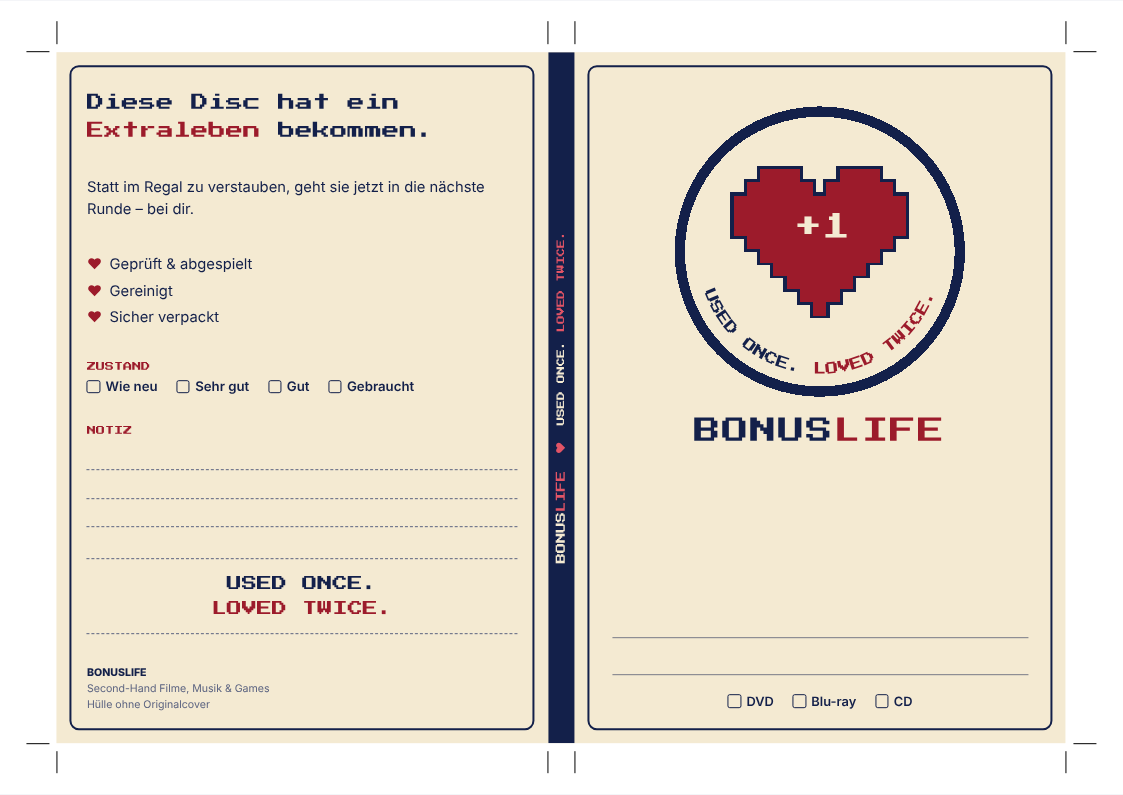
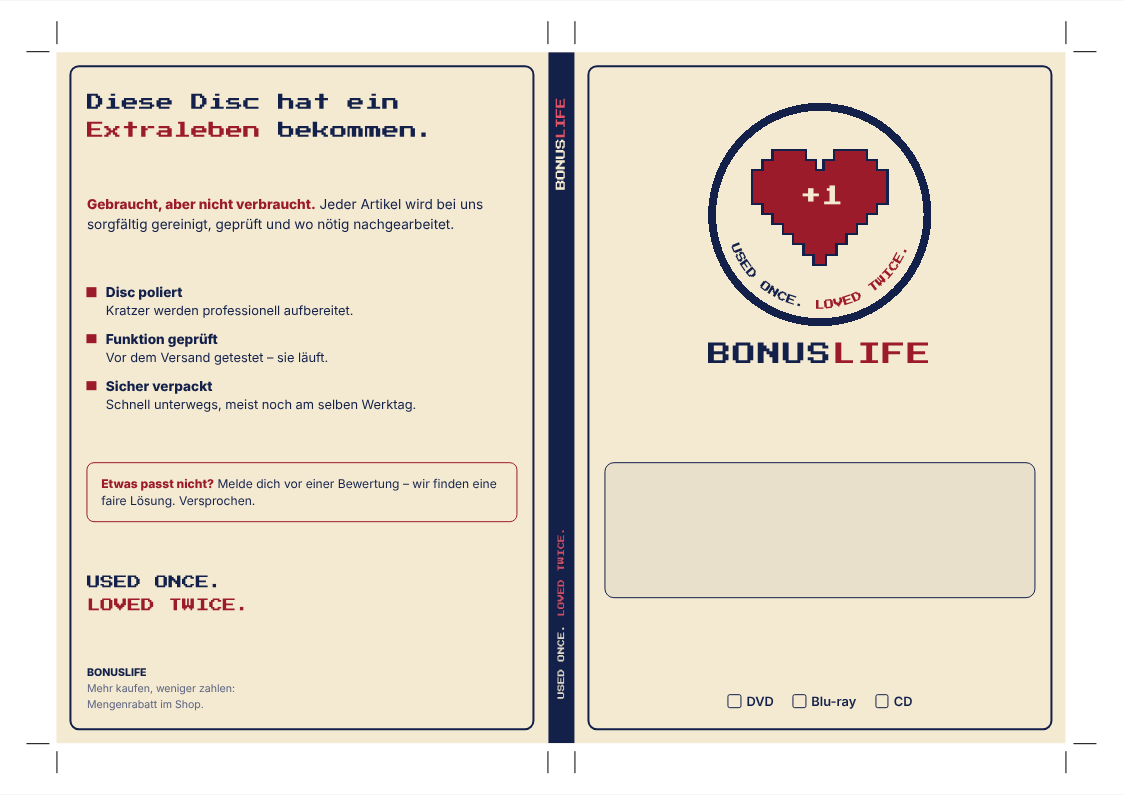
Simplify cover: centred title box, calmer spine, back copy from shop info
Shrink the front logo and bring back an unlabelled title box in the
middle. Drop the spine heart and push name and slogan to opposite ends.
Replace the condition and note fields on the back with the shop's own
promises (cleaned, polished, tested, packed safely, fair solution before
a rating) and a bundle-discount line.

Claude-Session: https://claude.ai/code/session_016MhpHubkyT9LhNT91FdgZQ

diff --git a/cover/index.html b/cover/index.html
@@ -44,11 +44,10 @@ h1{font-size:18px;margin-bottom:4px}
   width:calc(var(--panel-w)*2 + var(--spine));display:flex;background:var(--bg);color:var(--fg);overflow:hidden}
 .panel{width:var(--panel-w);height:100%;position:relative;padding:8mm 8mm;display:flex;flex-direction:column}
 .spine{width:var(--spine);height:100%;background:var(--navy);color:var(--cream);display:flex;align-items:center;justify-content:center;overflow:hidden}
-.spine .sp{writing-mode:vertical-rl;transform:rotate(180deg);white-space:nowrap;display:flex;align-items:center;gap:4mm;font-size:min(3.2mm,calc(var(--spine)*.5))}
+.spine .sp{writing-mode:vertical-rl;transform:rotate(180deg);white-space:nowrap;display:flex;align-items:center;justify-content:space-between;height:100%;padding:12mm 0;font-size:min(3.2mm,calc(var(--spine)*.5))}
 .spine .sp b{font-family:"Press Start 2P",monospace;font-size:.85em;font-weight:400}
 .spine .sp b span{color:#e25466}
-.spine .sp .sh{font-style:normal;color:#e25466;transform:rotate(90deg)}
-.spine .sp .sl{font-size:.7em}
+.spine .sp .sl{font-size:.62em;opacity:.9}
 
 /* Schnitt- und Falzmarken (außerhalb des Covers) */
 .marks{position:absolute;left:50%;top:50%;transform:translate(-50%,-50%);height:var(--h);width:calc(var(--panel-w)*2 + var(--spine));pointer-events:none}
@@ -60,14 +59,12 @@ h1{font-size:18px;margin-bottom:4px}
 
 /* Vorderseite */
 .front{align-items:center;text-align:center}
-.badge{width:78mm;height:78mm;margin-top:6mm}
+.badge{width:60mm;height:60mm;margin-top:5mm}
 .badge img{width:100%;height:100%;object-fit:contain}
-.brand{font-family:"Press Start 2P",monospace;font-size:7mm;margin-top:5mm;letter-spacing:.4mm}
+.brand{font-family:"Press Start 2P",monospace;font-size:6.2mm;margin-top:4mm;letter-spacing:.4mm}
 .brand span{color:var(--accent)}
-.titlefield{align-self:stretch;margin-top:auto;margin-bottom:5mm;padding:0 2mm}
-.titlefield .line{height:10mm;border-bottom:.35mm solid var(--fg);opacity:.55}
-.titlefield .t{font-weight:800;font-size:7.5mm;line-height:1.15;word-break:break-word;padding-bottom:2mm;border-bottom:.35mm solid var(--fg)}
-.line{border-bottom:.3mm dashed var(--muted);height:9mm}
+.titlefield{align-self:stretch;margin:auto 0;min-height:36mm;border:.5mm solid var(--fg);border-radius:2.5mm;background:var(--field);display:flex;align-items:center;justify-content:center;padding:4mm}
+.titlefield .t{font-weight:800;font-size:7.5mm;line-height:1.15;word-break:break-word}
 .formats{display:flex;gap:5mm;font-size:3.4mm;font-weight:600;margin-bottom:1mm}
 .formats span::before{content:"";display:inline-block;width:3mm;height:3mm;border:.35mm solid var(--fg);border-radius:.6mm;margin-right:1.4mm;vertical-align:-.4mm}
 .formats span.on::before{background:var(--accent);border-color:var(--accent)}
@@ -76,15 +73,17 @@ h1{font-size:18px;margin-bottom:4px}
 .back{justify-content:space-between}
 .back h2{font-family:"Press Start 2P",monospace;font-size:4.6mm;line-height:1.6;font-weight:400;margin-top:2mm}
 .back h2 span{color:var(--accent)}
-.back p{font-size:3.9mm;line-height:1.5}
-.checks{list-style:none;font-size:3.9mm;line-height:1.8}
-.checks li::before{content:"♥";color:var(--accent);margin-right:2mm}
-.slogan{font-family:"Press Start 2P",monospace;font-size:4mm;line-height:1.7;text-align:center;border-top:.4mm dashed var(--muted);border-bottom:.4mm dashed var(--muted);padding:3mm 0}
-.cond .lbl2,.notes .lbl2{font-family:"Press Start 2P",monospace;font-size:2.4mm;color:var(--accent);margin-bottom:2mm}
-.cond .opts{display:flex;flex-wrap:wrap;gap:2mm 5mm;font-size:3.5mm;font-weight:600}
-.cond .opts span::before{content:"";display:inline-block;width:3mm;height:3mm;border:.35mm solid var(--fg);border-radius:.6mm;margin-right:1.4mm;vertical-align:-.4mm}
+.back p{font-size:3.6mm;line-height:1.5}
+.back p b{color:var(--accent)}
+.feats{list-style:none;display:flex;flex-direction:column;gap:2.6mm}
+.feats li{font-size:3.4mm;line-height:1.4;padding-left:5mm;position:relative}
+.feats li::before{content:"";position:absolute;left:0;top:1.2mm;width:2.4mm;height:2.4mm;background:var(--accent)}
+.feats li b{display:block;font-size:3.6mm}
+.promise{border:.45mm solid var(--accent);border-radius:2mm;padding:3mm 3.5mm;font-size:3.2mm;line-height:1.45}
+.promise b{color:var(--accent)}
+.slogan{font-family:"Press Start 2P",monospace;font-size:3.6mm;line-height:1.7}
 .slogan span{color:var(--accent)}
-.notes .line{height:7.5mm}
+.slogan span{color:var(--accent)}
 .foot{display:flex;justify-content:space-between;align-items:flex-end;gap:4mm}
 .foot .small{font-size:2.8mm;color:var(--muted);line-height:1.5}
 .foot .small b{color:var(--fg)}
@@ -125,18 +124,21 @@ h1{font-size:18px;margin-bottom:4px}
     <div class="panel back">
       <div class="frame"></div>
       <h2>Diese Disc hat ein <span>Extraleben</span> bekommen.</h2>
-      <p>Statt im Regal zu verstauben, geht sie jetzt in die nächste Runde – bei dir.</p>
-      <ul class="checks"><li>Geprüft &amp; abgespielt</li><li>Gereinigt</li><li>Sicher verpackt</li></ul>
-      <div class="cond"><div class="lbl2">ZUSTAND</div><div class="opts"><span>Wie neu</span><span>Sehr gut</span><span>Gut</span><span>Gebraucht</span></div></div>
-      <div class="notes"><div class="lbl2">NOTIZ</div><div class="line"></div><div class="line"></div><div class="line"></div></div>
+      <p><b>Gebraucht, aber nicht verbraucht.</b> Jeder Artikel wird bei uns sorgfältig gereinigt, geprüft und wo nötig nachgearbeitet.</p>
+      <ul class="feats">
+        <li><b>Disc poliert</b>Kratzer werden professionell aufbereitet.</li>
+        <li><b>Funktion geprüft</b>Vor dem Versand getestet – sie läuft.</li>
+        <li><b>Sicher verpackt</b>Schnell unterwegs, meist noch am selben Werktag.</li>
+      </ul>
+      <div class="promise"><b>Etwas passt nicht?</b> Melde dich vor einer Bewertung – wir finden eine faire Lösung. Versprochen.</div>
       <div class="slogan">USED ONCE.<br><span>LOVED TWICE.</span></div>
       <div class="foot">
-        <div class="small"><b>BONUSLIFE</b><br>Second-Hand Filme, Musik &amp; Games<br>Hülle ohne Originalcover</div>
+        <div class="small"><b>BONUSLIFE</b><br>Mehr kaufen, weniger zahlen:<br>Mengenrabatt im Shop.</div>
         <div class="qr" id="qr" hidden></div>
       </div>
     </div>
     <!-- Rücken -->
-    <div class="spine"><div class="sp"><b>BONUS<span>LIFE</span></b><i class="sh">♥</i><b class="sl">USED ONCE. <span>LOVED TWICE.</span></b></div></div>
+    <div class="spine"><div class="sp"><b class="sl">USED ONCE. <span>LOVED TWICE.</span></b><b>BONUS<span>LIFE</span></b></div></div>
     <!-- Vorderseite (rechts) -->
     <div class="panel front">
       <div class="frame"></div>
@@ -187,7 +189,7 @@ function render(){
   $('logoArea').innerHTML=logoData?'<img src="'+logoData+'" alt="Bonuslife Logo">':badgeSVG();
 
   const t=$('title').value.trim();
-  $('titleOut').innerHTML=t?'<div class="t">'+esc(t)+'</div>':'<div class="line"></div><div class="line"></div>';
+  $('titleOut').innerHTML=t?'<div class="t">'+esc(t)+'</div>':'';
 
   const f=$('fmt').value;
   [...$('formats').children].forEach(s=>s.classList.toggle('on',s.textContent===f));
